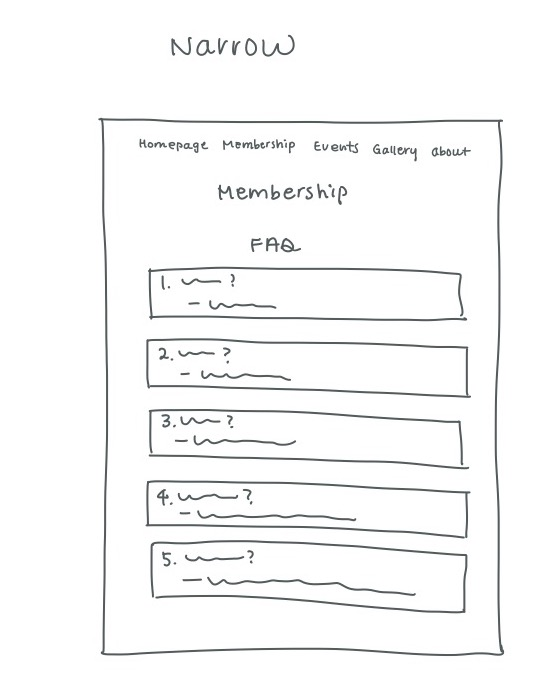
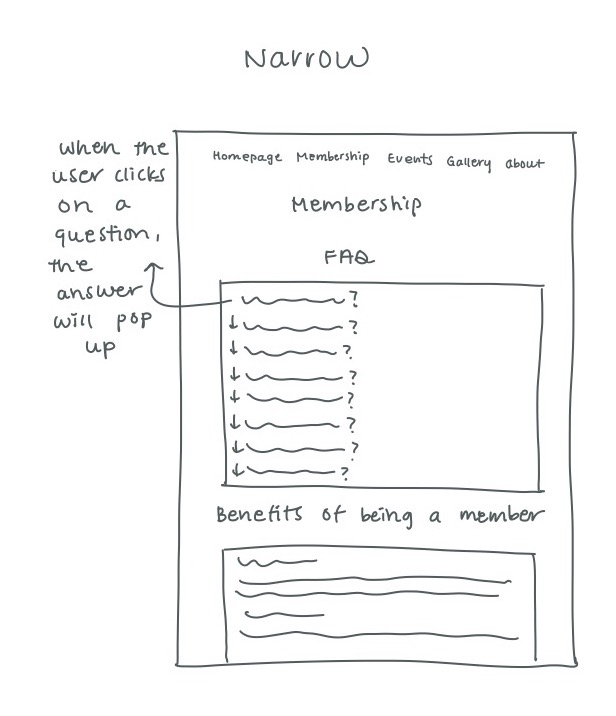
updated sketches

Changed region(s): [[0.0624, 0.1522, 0.9358, 0.9739], [0.3119, 0.0609, 0.6239, 0.0913], [0.4055, 0.2739, 0.6862, 0.3043]]

diff --git a/design-plan/design-journey.md b/design-plan/design-journey.md
@@ -465,7 +465,8 @@ When the user opens the website, there will be a pop-up that shows an upcoming e
 
 Membership Page Narrow
 ![Membership Page Narrow](/design-plan/narrow_membership_final.jpg)
-This page will have frequently asked questions about joining and being a member of CSA. It will also have a section about the benefits of being a member.
+![Membership Page Narrow Page 2](/design-plan/narrow_membership_final2.jpg)
+This page will have frequently asked questions about joining and being a member of CSA. When the user clicks on a question, the answer will pop up in a box. The questions will have an arrow on the left side to show users that it is clickable. It will also have a section about the benefits of being a member.
 
 Events Page Narrow
 ![Events Page Narrow](/design-plan/narrow_events_final.jpg)
@@ -488,7 +489,8 @@ In order to implement the "wide" design, the same code as the "narrow" design ca
 
 Membership Page Wide
 ![Membership Page Wide](/design-plan/wide_membership_final.jpg)
-This page answers commonly asked questions about joining a CSA membership. When the user clicks on a question, the answer will pop up.
+![Membership Page Wide Page 2](/design-plan/wide_membership_final2.jpg)
+This page answers commonly asked questions about joining a CSA membership. When the user clicks on a question, the answer will pop up in a box. The questions will have an arrow on the left side to show users that it is clickable.
 
 Events Page Wide
 ![Events Page Wide](/design-plan/wide_events_final.jpg)
